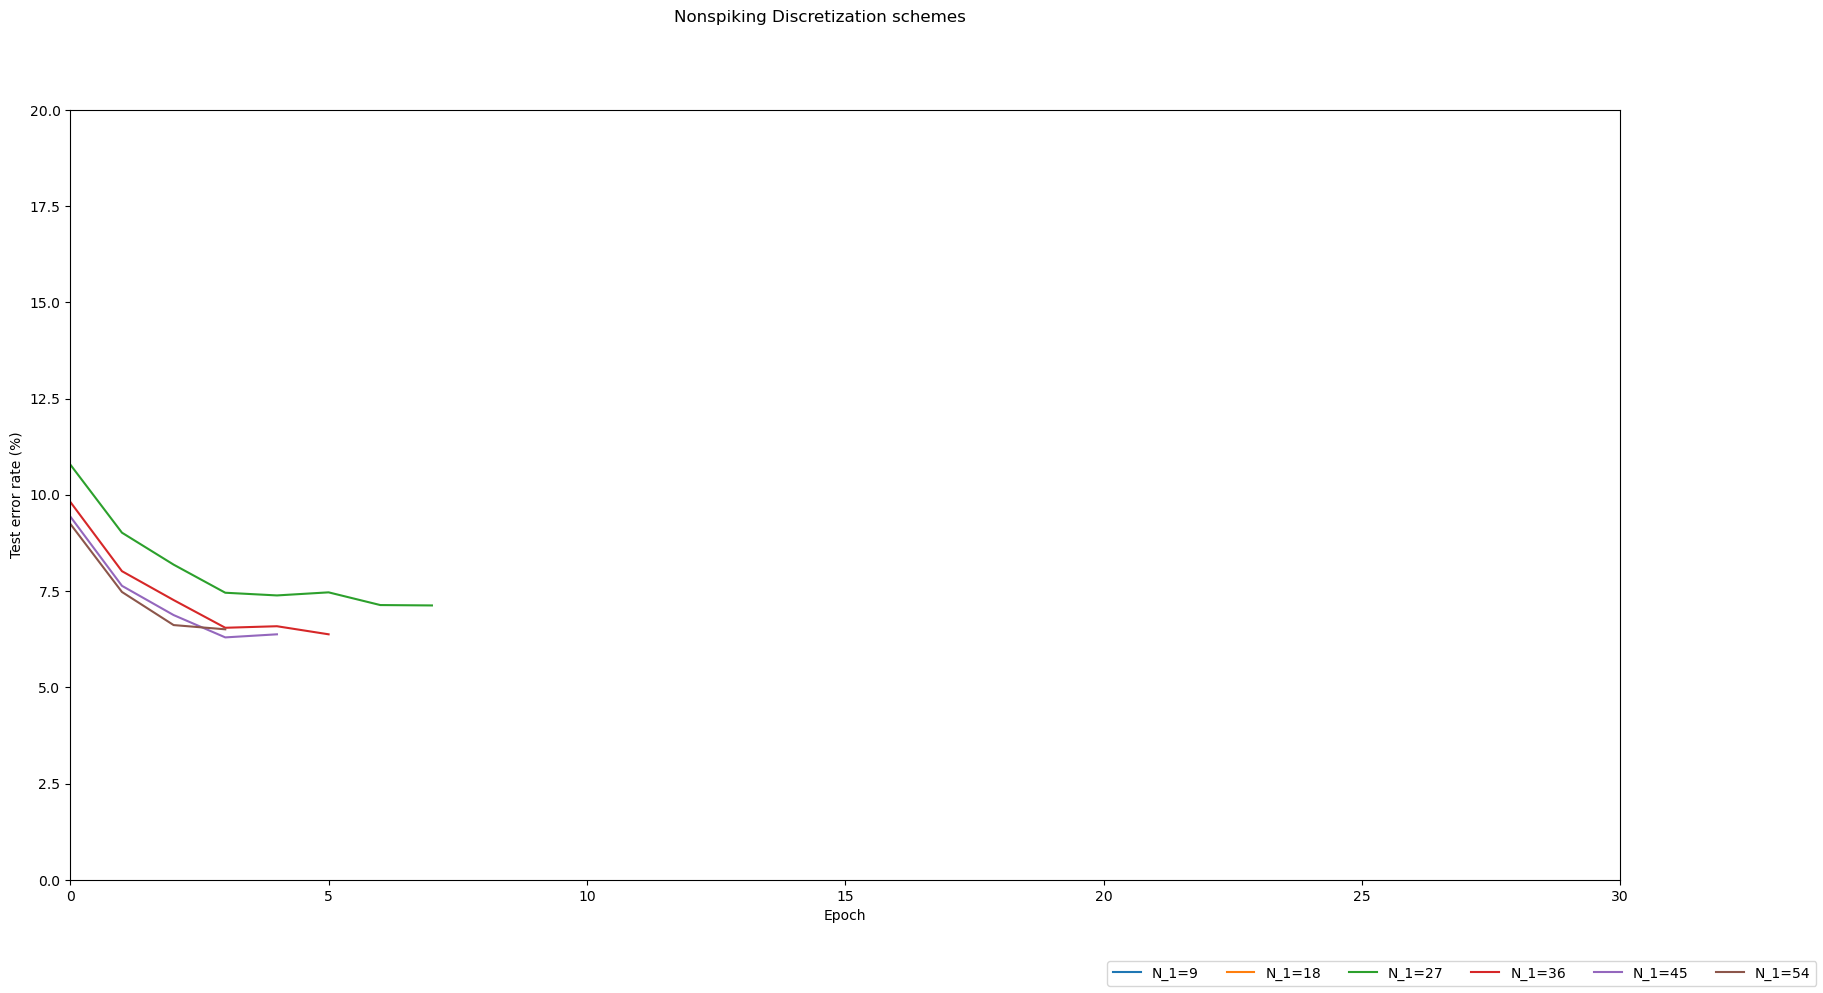
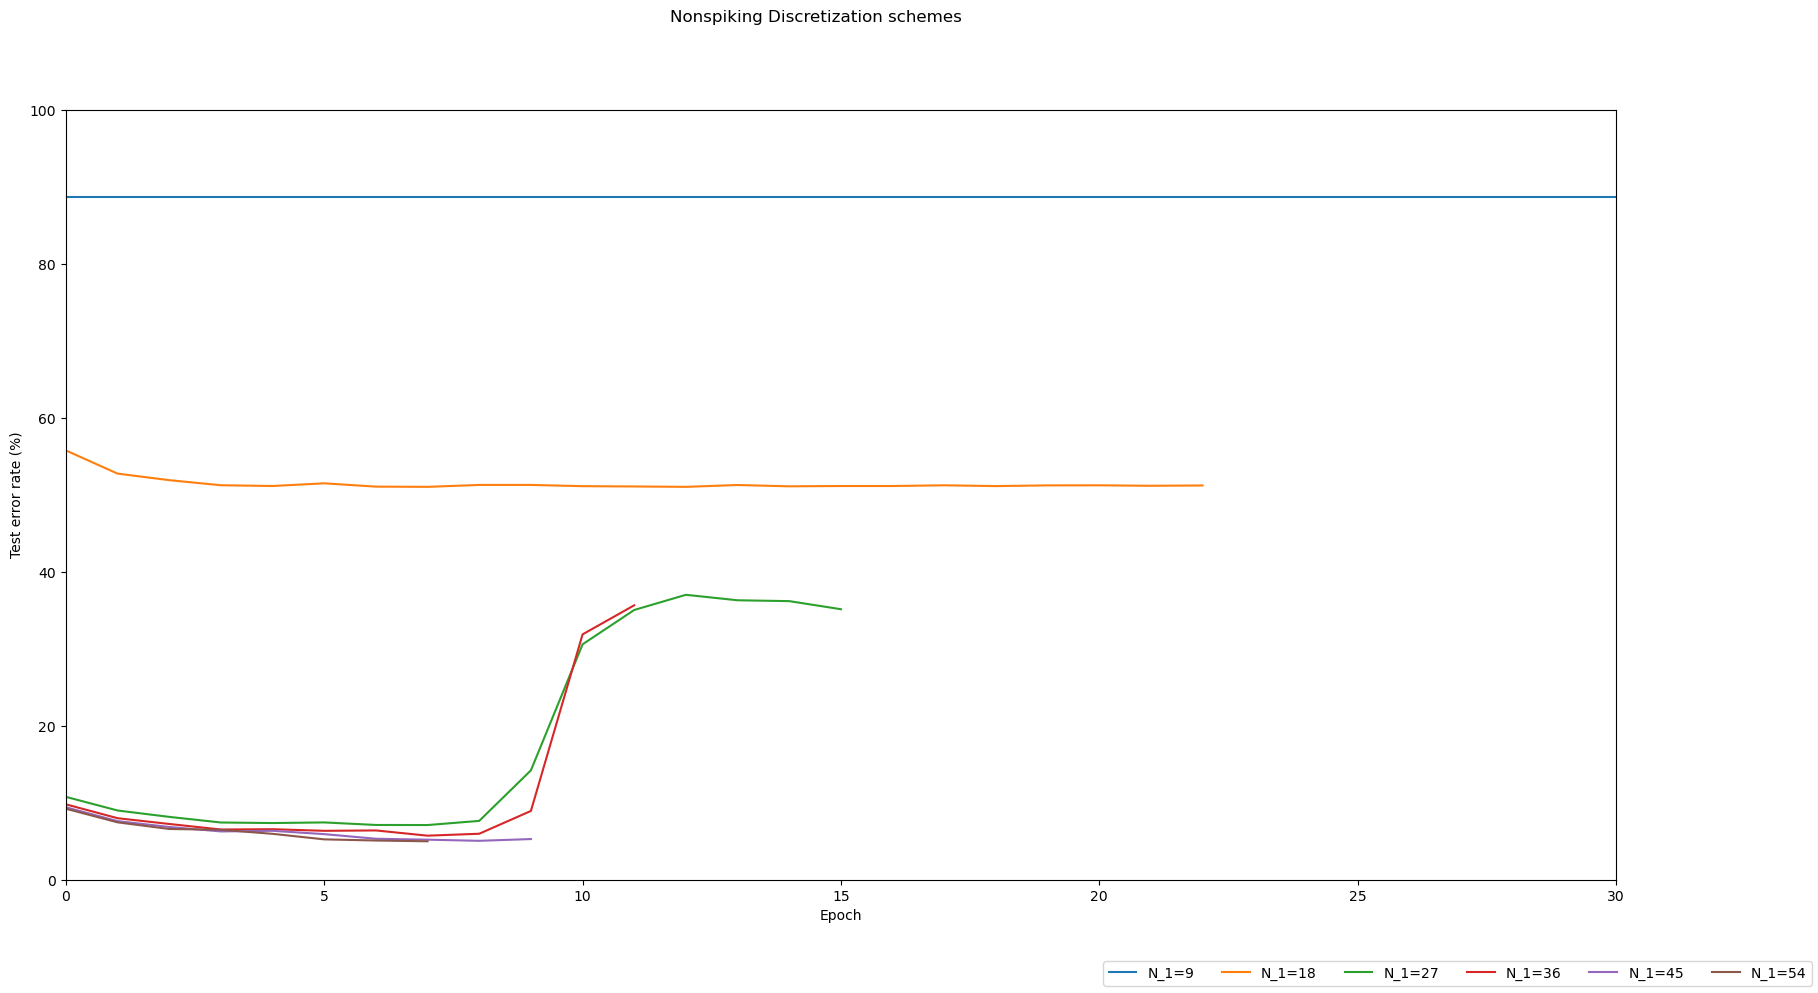
wip

diff --git a/graphUtil.py b/graphUtil.py
@@ -65,7 +65,7 @@ for i in range(6):
 ax.set_xlabel('Epoch')
 ax.set_ylabel('Test error rate (%)')
 ax.set_xlim([0,30])
-ax.set_ylim([0,20])
+ax.set_ylim([0,100])
 # ax.set_title()
 fig.suptitle(r"Nonspiking Discretization schemes")
 fig.legend(labels, loc='lower right', ncol=len(labels), bbox_transform=fig.transFigure)
@@ -82,7 +82,7 @@ for i in range(6):
 ax.set_xlabel('Epoch')
 ax.set_ylabel('Test error rate (%)')
 ax.set_xlim([0,30])
-ax.set_ylim([0,20])
+ax.set_ylim([0,100])
 # ax.set_title()
 fig.suptitle(r"Spiking Discretization schemes")
 fig.legend(labels, loc='lower right', ncol=len(labels), bbox_transform=fig.transFigure)
@@ -106,7 +106,7 @@ for i in range(6):
     ax[i//3,i%3].set_xlabel('Epoch')
     ax[i//3,i%3].set_ylabel('Test error rate (%)')
     ax[i//3,i%3].set_xlim([0,50])
-    ax[i//3,i%3].set_ylim([0,60])
+    ax[i//3,i%3].set_ylim([0,100])
     ax[i//3,i%3].set_title(r'$N_1=$'+str(3*N2[i])+', $N_2=$'+str(N2[i])+', dt = '+'{:.2f}'.format(1-np.exp(-5.357/N2[i])))
 fig.suptitle(r"Test error for spiking and nonspiking dynamics ($\beta = 0.2$)",fontsize=20)
 fig.legend(labels, loc='lower right', ncol=len(labels), bbox_transform=fig.transFigure)

diff --git a/main.py b/main.py
@@ -219,7 +219,7 @@ parser.add_argument(
     default=1.44,
     help='decay factor for traces')
 parser.add_argument(
-    '--max_fr',
+    '--max-fr',
     type=float,
     default=None, #1.0
     help='maximum activity / firing rate')
